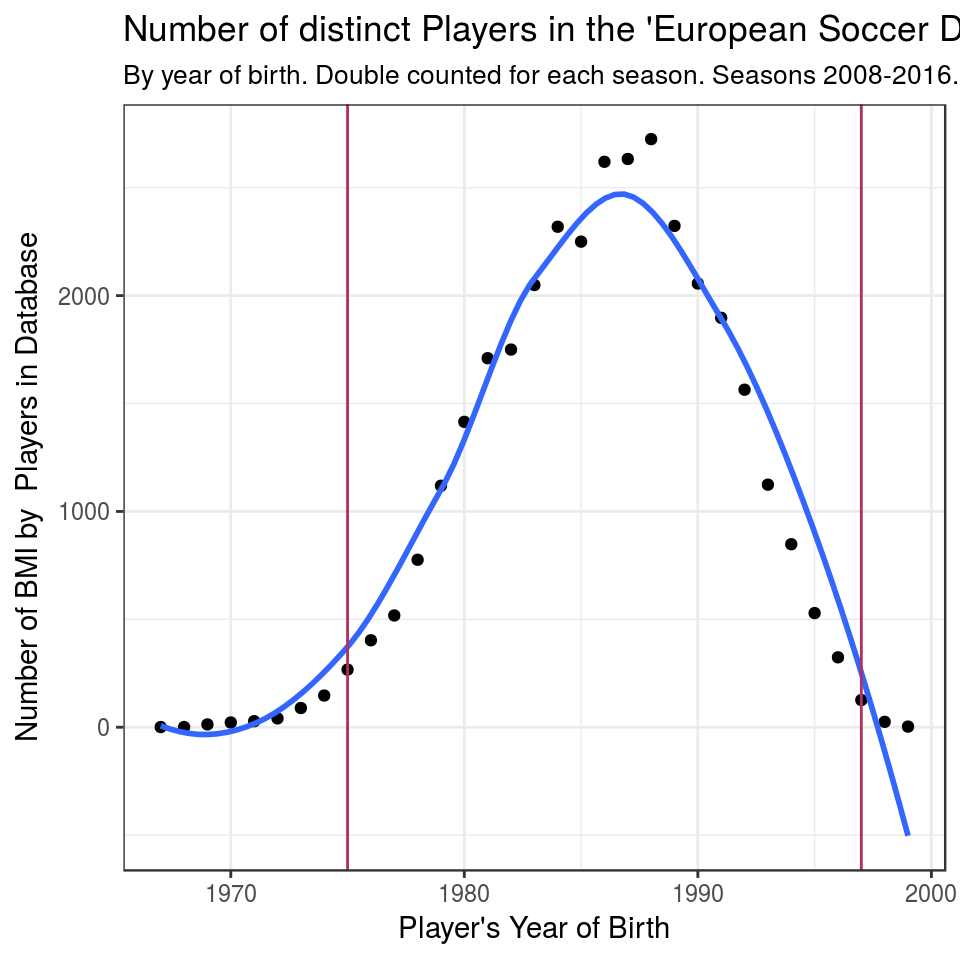
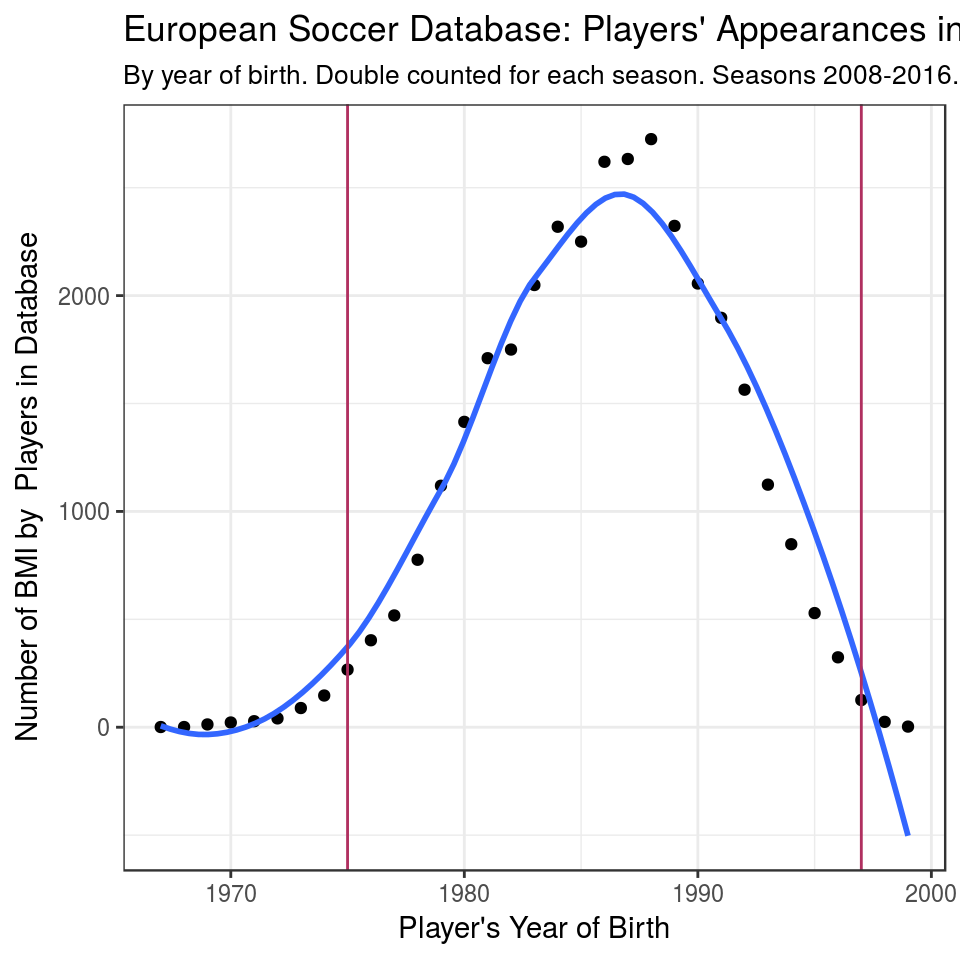
change some ggtitles

Changed region(s): [[0.125, 0.0, 1.0, 0.0625]]

diff --git a/public/about/more-about-the-hugo-software/index.html b/public/about/more-about-the-hugo-software/index.html
@@ -1,174 +1,2 @@
 <!-- custom layouts/_default/single.html //-->
 
-l lang="en-us">
-        <!-- post/header-post.html //-->
-  <head>
-    <meta charset="utf-8">
-<meta http-equiv="X-UA-Compatible" content="IE=edge">
-<title>More about the Hugo Software</title>
-<meta name="description" content="Knut Behrends&#39; personal blog. A website built through Hugo and blogdown.">
-<meta name="viewport" content="width=device-width, initial-scale=1">
-<meta name="robots" content="all,follow">
-<meta name="googlebot" content="index,follow,snippet,archive">
-
-<link rel="stylesheet" href="/css/bootstrap.min.css">
-<link rel="stylesheet" href="//fonts.googleapis.com/css?family=Roboto:400,300,700,400italic">
-<link rel="stylesheet" href="/css/font-awesome.min.css">
-<link rel="stylesheet" href="/css/owl.carousel.css">
-<link rel="stylesheet" href="/css/owl.theme.css">
-
-
-  <link href="/css/style.green.css" rel="stylesheet" id="theme-stylesheet">
-
- 
-
-  
-    <!--[if lt IE 9]>
-        <script src="https://oss.maxcdn.com/html5shiv/3.7.2/html5shiv.min.js"></script>
-        <script src="https://oss.maxcdn.com/respond/1.4.2/respond.min.js"></script>
-    <![endif]-->
-  
-
-
-<link href="/css/custom.css" rel="stylesheet">
-<link rel="shortcut icon" href="/img/favicon/favicon.png">
-
-
-<script>
-window.ga=window.ga||function(){(ga.q=ga.q||[]).push(arguments)};ga.l=+new Date;
-ga('create', 'UA-38728498-3', 'auto');
-ga('send', 'pageview');
-</script>
-<script async src='//www.google-analytics.com/analytics.js'></script>
-
-
-    
-<link rel="apple-touch-icon" sizes="57x57" href="/img/favicon/apple-icon-57x57.png">
-<link rel="apple-touch-icon" sizes="60x60" href="/img/favicon/apple-icon-60x60.png">
-<link rel="apple-touch-icon" sizes="72x72" href="/img/favicon/apple-icon-72x72.png">
-<link rel="apple-touch-icon" sizes="76x76" href="/img/favicon/apple-icon-76x76.png">
-<link rel="apple-touch-icon" sizes="114x114" href="/img/favicon/apple-icon-114x114.png">
-<link rel="apple-touch-icon" sizes="120x120" href="/img/favicon/apple-icon-120x120.png">
-<link rel="apple-touch-icon" sizes="144x144" href="/img/favicon/apple-icon-144x144.png">
-<link rel="apple-touch-icon" sizes="152x152" href="/img/favicon/apple-icon-152x152.png">
-<link rel="apple-touch-icon" sizes="180x180" href="/img/favicon/apple-icon-180x180.png">
-<link rel="icon" type="image/png" sizes="192x192"  href="/img/favicon/android-icon-192x192.png">
-<link rel="icon" type="image/png" sizes="32x32" href="/img/favicon/favicon-32x32.png">
-<link rel="icon" type="image/png" sizes="96x96" href="/img/favicon/favicon-96x96.png">
-<link rel="icon" type="image/png" sizes="16x16" href="/img/favicon/favicon-16x16.png">
-<link rel="manifest" href="/img/favicon/manifest.json">
-<meta name="msapplication-TileColor" content="#ffffff">
-<meta name="msapplication-TileImage" content="/ms-icon-144x144.png">
-<meta name="theme-color" content="#ffffff">
-
-  </head>
-  <body>
-    <div class="wrapper">
-      <header class="header">
-              <nav class="nav">
-
-  <a href="/" class="nav-logo">
-    
-    <span class="nav-logo-medium"><img src="/img/logo-knutbehrends-square-circle.72x72.png" alt="brain-activity-logo" /></span>
-    
-    </a>
-  <span class="sidebar-heading">
-          <a href="/">Knut Behrends Personal Blog, v3</a>
-  </span>
-  <ul class="nav-links">
-    
-    <li><a href="/">Home</a></li>
-    
-    <li><a href="/post/">Blog</a></li>
-    
-    <li><a href="/about/">About</a></li>
-    
-    <li><a href="/contact/">Get in touch</a></li>
-    
-  </ul>
-</nav>
-
-      </header>
-
-
-<link rel="apple-touch-icon" sizes="57x57" href="/img/favicon/apple-icon-57x57.png">
-<link rel="apple-touch-icon" sizes="60x60" href="/img/favicon/apple-icon-60x60.png">
-<link rel="apple-touch-icon" sizes="72x72" href="/img/favicon/apple-icon-72x72.png">
-<link rel="apple-touch-icon" sizes="76x76" href="/img/favicon/apple-icon-76x76.png">
-<link rel="apple-touch-icon" sizes="114x114" href="/img/favicon/apple-icon-114x114.png">
-<link rel="apple-touch-icon" sizes="120x120" href="/img/favicon/apple-icon-120x120.png">
-<link rel="apple-touch-icon" sizes="144x144" href="/img/favicon/apple-icon-144x144.png">
-<link rel="apple-touch-icon" sizes="152x152" href="/img/favicon/apple-icon-152x152.png">
-<link rel="apple-touch-icon" sizes="180x180" href="/img/favicon/apple-icon-180x180.png">
-<link rel="icon" type="image/png" sizes="192x192"  href="/img/favicon/android-icon-192x192.png">
-<link rel="icon" type="image/png" sizes="32x32" href="/img/favicon/favicon-32x32.png">
-<link rel="icon" type="image/png" sizes="96x96" href="/img/favicon/favicon-96x96.png">
-<link rel="icon" type="image/png" sizes="16x16" href="/img/favicon/favicon-16x16.png">
-<link rel="manifest" href="/img/favicon/manifest.json">
-<meta name="msapplication-TileColor" content="#ffffff">
-<meta name="msapplication-TileImage" content="/ms-icon-144x144.png">
-<meta name="theme-color" content="#ffffff">
-
-
-
-
-<main class="content" role="main">
-
-  <article class="article">
-    
-
-    <h1 class="article-title">More about the Hugo Software</h1>
-
-    
-
-    <div class="article-content">
-      <div id="links-important-to-me" class="section level4">
-<h4>Links important to me</h4>
-<ul>
-<li><a href="https://gohugo.io/variables/page/">Hugo Documentation:: predefined variables</a> Click on the link to go to the Hugo Documentation, (predefined variables).</li>
-<li><a href="https://gohugo.io/content-management/">Hugo Documentation: Content Management</a></li>
-<li><a href="https://www.rstudio.com/wp-content/uploads/2016/03/rmarkdown-cheatsheet-2.0.pdf">RMarkdown Cheat Sheet</a></li>
-</ul>
-</div>
-
-    </div>
-  </article>
-
-  
-
-</main>
-
-<!-- layouts/partials/footer.html //-->
-      <footer class="footer">
-        <ul class="footer-links">
-          <li>
-            <a href="/index.xml" type="application/rss+xml" target="_blank">RSS feed</a>
-          </li>
-        </ul>
-        
-        <script async src="https://www.googletagmanager.com/gtag/js?id=UA-38728498-3"></script>
-
-
-      </footer>
-
-  
-  
-
-  
-
-
-<script src="/js/jquery.min.js"></script>
-<script src="/js/bootstrap.min.js"></script>
-<script src="/js/jquery.cookie.js"> </script>
-<script src="/js/ekko-lightbox.js"></script>
-<script src="/js/jquery.scrollTo.min.js"></script>
-<script src="/js/masonry.pkgd.min.js"></script>
-<script src="/js/imagesloaded.pkgd.min.js"></script>
-<script src="/js/owl.carousel.min.js"></script>
-<script src="/js/front.js"></script>
-<script src="/js/motto-fragments.js"></script>
-<script src="/js/math-code.js"></script>
-<script src="/js/modify-css.js"></script>
-
-</body>
-</html>

diff --git a/content/post/2017-12-04-body-height-and-bmi-in-european-soccer-players-over-the-years-2008-2016.html b/content/post/2017-12-04-body-height-and-bmi-in-european-soccer-players-over-the-years-2008-2016.html
@@ -123,7 +123,7 @@ Player_bmi_by_year %&gt;%
         xlab(&quot;Player&#39;s Year of Birth&quot;) +
         geom_vline(xintercept = c(yob_thresh_max, yob_thresh_min),
                    color=&quot;maroon&quot;) +
-        ggtitle(&quot;Number of distinct Players in the &#39;European Soccer Database&quot;,
+        ggtitle(&quot;European Soccer Database: Players&#39; Appearances in Matches&quot;,
                 subtitle = &quot;By year of birth. Double counted for each season. Seasons 2008-2016.&quot;)</code></pre>
 <p><img src="/post/2017-12-04-body-height-and-bmi-in-european-soccer-players-over-the-years-2008-2016_files/figure-html/unnamed-chunk-11-1.png" width="480" /></p>
 <pre class="r"><code># remove players where we have too few counts 

diff --git a/content/post/2017-12-03-european-soccer-players--oldest.html b/content/post/2017-12-03-european-soccer-players--oldest.html
@@ -72,7 +72,7 @@ Player_distinct_by_year %&gt;%
         geom_smooth(method=&quot;loess&quot;, se=FALSE, size=0.5) +
         ylab(&quot;Number of distinct Players in Database&quot;) +
         xlab(&quot;Player&#39;s Year of Birth&quot;) +
-        ggtitle(&quot;Number of distinct Players in the &#39;European Soccer Database&quot;,
+        ggtitle(&quot;Players&#39; appearances in the &#39;European Soccer Database&#39;&quot;,
                 subtitle = &quot;Counting Players&#39; appearances in the squads. Seasons 2008-2016.\n
 Each player is counted once per season no matter how often he played.&quot;)</code></pre>
 <p><img src="/post/2017-12-03-european-soccer-players--oldest_files/figure-html/unnamed-chunk-9-1.png" width="768" /></p>

diff --git a/content/portfolio/2017-12-04-body-height-and-bmi-in-european-soccer-players-over-the-years-2008-2016.html b/content/portfolio/2017-12-04-body-height-and-bmi-in-european-soccer-players-over-the-years-2008-2016.html
@@ -2,6 +2,7 @@
 title: Body Height and BMI in European Soccer Players over the years 2008-2016
 author: Knut Behrends
 date: '2017-12-04'
+slug: body-height-and-bmi-in-european-soccer-players-over-the-years-2008-2016
 image: img/football.png
 categories:
   - blog-post
